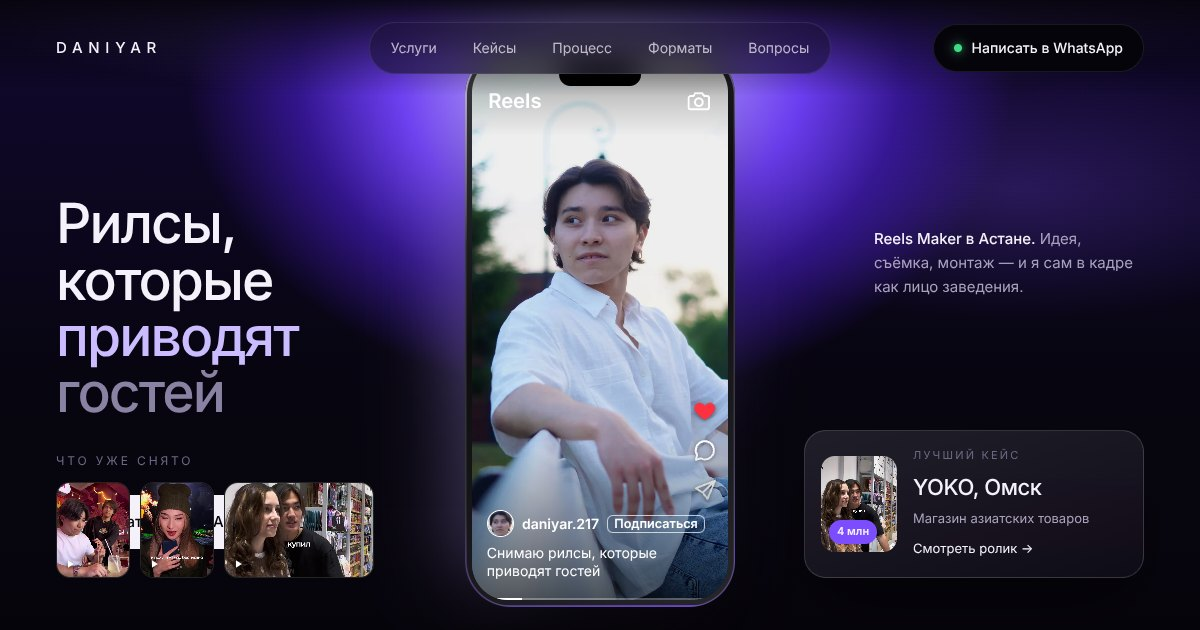
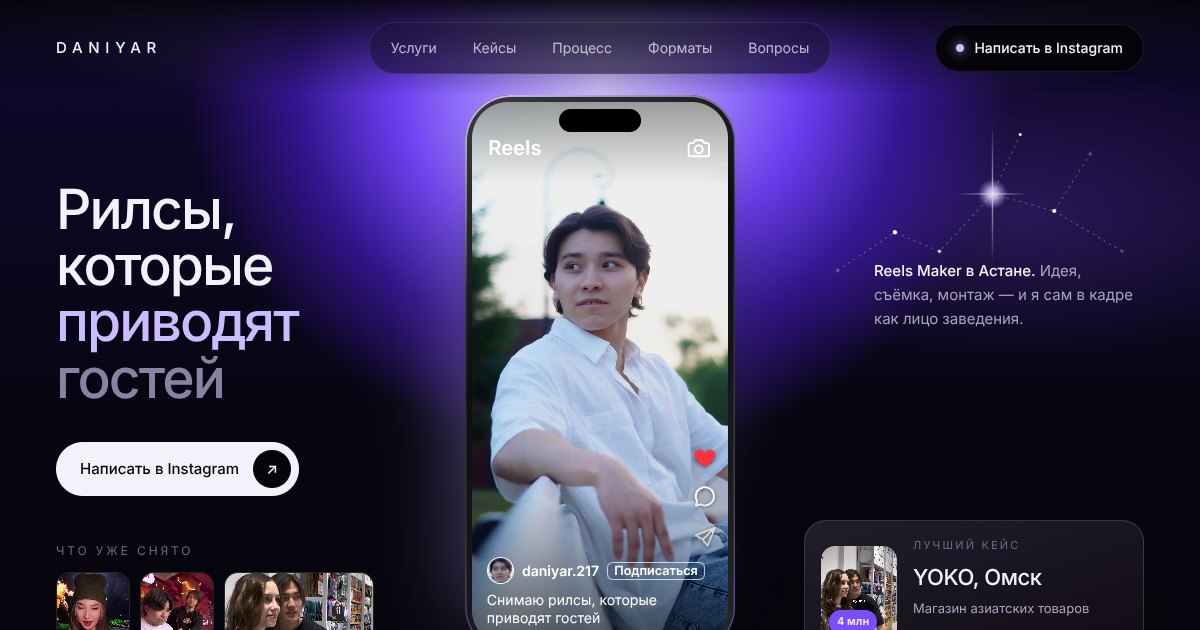
Contact via Instagram Direct only; no text animation on cases
All contact buttons now open ig.me/m/daniyar.217 in a new tab; the
WhatsApp nick, copy-to-clipboard toast and its code are removed.
Case cards no longer animate their titles or count up the number.
OG preview regenerated with the new button.

Claude-Session: https://claude.ai/code/session_01Y36Lw1QfzpX6iKxynzhUKg

diff --git a/reels/index.html b/reels/index.html
@@ -26,7 +26,7 @@
 <link rel="icon" href="favicon.svg" type="image/svg+xml">
 <link rel="apple-touch-icon" href="og.jpg">
 <link rel="preload" href="fonts/inter-cyrillic-500-normal.woff2" as="font" type="font/woff2" crossorigin>
-<link rel="stylesheet" href="css/site.css?v=14">
+<link rel="stylesheet" href="css/site.css?v=15">
 <script>
   document.documentElement.classList.replace('no-js', 'js');
 </script>
@@ -35,10 +35,8 @@
 
 
 <!--
-  КОНТАКТЫ. WhatsApp указан ником (ссылки по нику WhatsApp пока работают не везде):
-  кнопки с атрибутом data-wa копируют ник и показывают подсказку. Ник задан в js/app.js (NICK)
-  и в тексте рядом с кнопками — ищите «daniyar2110».
-  Если появится номер: замените href="#contacts" data-wa… на https://wa.me/7XXXXXXXXXX.
+  КОНТАКТЫ. Только Instagram: кнопки ведут сразу в директ — https://ig.me/m/daniyar.217.
+  Если ник поменяется, замените daniyar.217 во всех ссылках (поиск по «ig.me»).
 -->
 
 <!-- Навигация -->
@@ -51,7 +49,7 @@
     <a href="#formats">Форматы</a>
     <a href="#faq">Вопросы</a>
   </div>
-  <a class="cta-top" href="#contacts" data-wa=""><i></i>Написать в WhatsApp</a>
+  <a class="cta-top" href="https://ig.me/m/daniyar.217" target="_blank" rel="noopener"><i></i>Написать в Instagram</a>
 </nav>
 
 <!-- 1. Первый экран -->
@@ -97,7 +95,7 @@
   </div>
 
   <p class="aside rv" style="--d:.15s"><b>Reels Maker в Астане.</b> Идея, съёмка, монтаж — и я сам в кадре как лицо заведения.</p>
-  <a class="cta rv" style="--d:.2s" href="#contacts" data-wa="">Написать в WhatsApp <i aria-hidden="true">↗</i></a>
+  <a class="cta rv" style="--d:.2s" href="https://ig.me/m/daniyar.217" target="_blank" rel="noopener">Написать в Instagram <i aria-hidden="true">↗</i></a>
 
   <p class="thumbs-cap">Что уже снято</p>
   <div class="thumbs">
@@ -188,7 +186,7 @@
         <h3>Магазин азиатских товаров<small>Привести покупателей в офлайн-магазин. Полный цикл, сам в кадре.</small></h3>
         <div class="bottom">
           <div>
-            <div class="mega"><span data-count="4">4</span><small>млн просмотров</small></div>
+            <div class="mega"><span>4</span><small>млн просмотров</small></div>
             <p class="case-meta">129K лайков · 5,9K сохранений</p>
             <div class="links" style="margin-top:16px">
               <button type="button" class="btn btn-accent watch" data-videos="cases/yoko-4m.mp4" data-posters="cases/yoko-4m.jpg">Ролик <span class="pl"><svg width="12" height="12" viewBox="0 0 24 24"><path d="M7 4.8v14.4c0 .8.9 1.3 1.6.9l11.3-7.2c.6-.4.6-1.3 0-1.7L8.6 3.9C7.9 3.5 7 4 7 4.8z" fill="currentColor"/></svg></span></button>
@@ -221,7 +219,7 @@
     <h2 class="rv"><span class="hl">Четыре</span> шага</h2>
     <p class="sub rv">Без брифов на десять страниц. Вы пишете — дальше процесс веду я.</p>
     <ol class="steps-row">
-      <li class="rv"><span class="num">1</span><h3>Заявка</h3><p>Пишете в WhatsApp или в директ Instagram.</p></li>
+      <li class="rv"><span class="num">1</span><h3>Заявка</h3><p>Пишете мне в директ Instagram.</p></li>
       <li class="rv" style="--d:.08s"><span class="num">2</span><h3>Созвон и идеи</h3><p>Обсуждаем задачу, предлагаю идеи и контент-план.</p></li>
       <li class="rv" style="--d:.16s"><span class="num">3</span><h3>Съёмка</h3><p>Приезжаю и снимаю несколько роликов за смену.</p></li>
       <li class="rv" style="--d:.24s"><span class="num">4</span><h3>Готово</h3><p>Отдаю ролики, готовые к публикации.</p></li>
@@ -236,11 +234,11 @@
     <h2 class="rv">Форматы <span class="hl">работы</span></h2>
     <p class="sub rv">Стоимость назову в переписке — она зависит от задачи и объёма.</p>
     <div class="fmt-list">
-      <div class="fmt-row rv"><span class="cnt">1<small>ролик</small></span><h3>Пробный</h3><p>Познакомиться и посмотреть на результат.</p><a class="ask-link" href="#contacts" data-wa="Пробный ролик">Узнать стоимость</a></div>
-      <div class="fmt-row rv"><span class="cnt">4<small>в месяц</small></span><h3>Раз в неделю</h3><p>Аккаунт не простаивает.</p><a class="ask-link" href="#contacts" data-wa="4 ролика в месяц">Узнать стоимость</a></div>
-      <div class="fmt-row rv hl"><span class="cnt">8<small>в месяц</small></span><h3>Дважды в неделю <span class="badge">Оптимально</span></h3><p>С контент-планом на месяц.</p><a class="ask-link" href="#contacts" data-wa="8 роликов в месяц">Узнать стоимость</a></div>
-      <div class="fmt-row rv"><span class="cnt">12<small>в месяц</small></span><h3>Три раза в неделю</h3><p>С контент-планом на месяц.</p><a class="ask-link" href="#contacts" data-wa="12 роликов в месяц">Узнать стоимость</a></div>
-      <div class="fmt-row rv"><span class="cnt">20+<small>в месяц</small></span><h3>Почти каждый день</h3><p>Для сетей и активных аккаунтов.</p><a class="ask-link" href="#contacts" data-wa="20+ роликов в месяц">Узнать стоимость</a></div>
+      <div class="fmt-row rv"><span class="cnt">1<small>ролик</small></span><h3>Пробный</h3><p>Познакомиться и посмотреть на результат.</p><a class="ask-link" href="https://ig.me/m/daniyar.217" target="_blank" rel="noopener">Узнать стоимость</a></div>
+      <div class="fmt-row rv"><span class="cnt">4<small>в месяц</small></span><h3>Раз в неделю</h3><p>Аккаунт не простаивает.</p><a class="ask-link" href="https://ig.me/m/daniyar.217" target="_blank" rel="noopener">Узнать стоимость</a></div>
+      <div class="fmt-row rv hl"><span class="cnt">8<small>в месяц</small></span><h3>Дважды в неделю <span class="badge">Оптимально</span></h3><p>С контент-планом на месяц.</p><a class="ask-link" href="https://ig.me/m/daniyar.217" target="_blank" rel="noopener">Узнать стоимость</a></div>
+      <div class="fmt-row rv"><span class="cnt">12<small>в месяц</small></span><h3>Три раза в неделю</h3><p>С контент-планом на месяц.</p><a class="ask-link" href="https://ig.me/m/daniyar.217" target="_blank" rel="noopener">Узнать стоимость</a></div>
+      <div class="fmt-row rv"><span class="cnt">20+<small>в месяц</small></span><h3>Почти каждый день</h3><p>Для сетей и активных аккаунтов.</p><a class="ask-link" href="https://ig.me/m/daniyar.217" target="_blank" rel="noopener">Узнать стоимость</a></div>
     </div>
     <p class="sub rv fmt-note">В любом формате могу сниматься сам. Работаю в Астане; выезд и срочный монтаж — отдельно.</p>
   </div>
@@ -271,10 +269,9 @@
         <span class="kicker rv">Контакты</span>
         <h2 class="rv">Пишите <span class="hl">мне</span></h2>
         <p class="final-sub rv">Расскажите о заведении — идеи предложу уже в переписке.</p>
-        <p class="final-nick rv">WhatsApp @daniyar2110 · Instagram @daniyar.217</p>
+        <p class="final-nick rv">Instagram @daniyar.217 · пишите в директ</p>
         <div class="hero-cta rv">
-          <a href="#contacts" class="btn btn-accent" data-wa="">Написать в WhatsApp <svg width="14" height="14" viewBox="0 0 24 24" fill="none" stroke="currentColor" stroke-width="2.4" stroke-linecap="round" stroke-linejoin="round"><path d="M5 12h14M13 6l6 6-6 6"/></svg></a>
-          <a href="https://www.instagram.com/daniyar.217/" class="btn btn-ghost" target="_blank" rel="noopener">Instagram</a>
+          <a href="https://ig.me/m/daniyar.217" target="_blank" rel="noopener" class="btn btn-accent">Написать в Instagram <svg width="14" height="14" viewBox="0 0 24 24" fill="none" stroke="currentColor" stroke-width="2.4" stroke-linecap="round" stroke-linejoin="round"><path d="M5 12h14M13 6l6 6-6 6"/></svg></a>
         </div>
       </div>
     </div>
@@ -297,8 +294,7 @@
     <div class="player-nav"></div>
   </div>
 </div>
-<div class="toast" id="toast" role="status" aria-live="polite"></div>
 
-<script src="js/app.js?v=14"></script>
+<script src="js/app.js?v=15"></script>
 </body>
 </html>

diff --git a/reels/js/app.js b/reels/js/app.js
@@ -98,8 +98,6 @@
       activeCase = on;
       dots.forEach((d, i) => d.classList.toggle('on', i === on));
       if (counter) counter.textContent = String(on + 1).padStart(2, '0') + ' / ' + String(cards.length).padStart(2, '0');
-      const h = $('h3', cards[on]);
-      if (h && !reduce) { h.classList.remove('reveal'); void h.offsetWidth; h.classList.add('reveal'); }
     }
   };
 
@@ -136,27 +134,6 @@
   addEventListener('scroll', onScroll, { passive: true });
   addEventListener('resize', onScroll);
   onScroll();
-
-  // ---------- WhatsApp по нику: кнопка копирует ник и подсказывает, где его вставить ----------
-  const NICK = 'daniyar2110';
-  const toast = $('#toast');
-  let toastT;
-  const show = (html) => { toast.innerHTML = html; toast.classList.add('show'); clearTimeout(toastT); toastT = setTimeout(() => toast.classList.remove('show'), 6000); };
-  const copy = (text) => {
-    if (navigator.clipboard && window.isSecureContext) return navigator.clipboard.writeText(text);
-    const t = document.createElement('textarea'); t.value = text; t.style.cssText = 'position:fixed;opacity:0';
-    document.body.appendChild(t); t.select();
-    try { document.execCommand('copy'); } catch (e) { /* старый браузер: ник всё равно покажем */ }
-    document.body.removeChild(t);
-    return Promise.resolve();
-  };
-  $$('[data-wa]').forEach((btn) => btn.addEventListener('click', (e) => {
-    e.preventDefault();
-    const fmt = btn.dataset.wa, tail = fmt ? ' Спросите про формат «' + fmt + '».' : '';
-    copy(NICK).then(
-      () => show('Ник <b>@' + NICK + '</b> скопирован. Откройте WhatsApp и вставьте его в поиск.' + tail),
-      () => show('Мой WhatsApp: <b>@' + NICK + '</b>. Найдите этот ник через поиск в WhatsApp.' + tail));
-  }));
 
   // ---------- плеер роликов из кейсов: видео грузится только по нажатию ----------
   const player = $('.player'), video = player && $('video', player), pnav = player && $('.player-nav', player);

diff --git a/reels/css/site.css b/reels/css/site.css
@@ -807,7 +807,7 @@ section.block::before, .final::before {
 .vnav .links a:hover { color: var(--text); }
 .vnav .links a.active { background: #06040b; color: var(--text); }
 .vnav .cta-top { justify-self: end; display: inline-flex; align-items: center; gap: 10px; padding: 12px 20px; border-radius: 999px; background: #06040b; border: 1px solid rgba(255,255,255,.08); font-size: 14px; font-weight: 500; }
-.vnav .cta-top i { width: 8px; height: 8px; border-radius: 50%; background: #3ddc84; box-shadow: 0 0 10px #3ddc84; }
+.vnav .cta-top i { width: 8px; height: 8px; border-radius: 50%; background: var(--lilac); box-shadow: 0 0 10px var(--lilac); }
 
 /* ---------- первый экран ---------- */
 .vhero { position: relative; z-index: 3; min-height: 100vh; min-height: 100svh; overflow: hidden; isolation: isolate; }
@@ -988,8 +988,3 @@ section.block::before, .final::before {
   .vhero .cta { top: auto; bottom: 224px; }
 }
 
-/* смена карточки кейса: заголовок мягко проявляется из лёгкого размытия */
-.case h3.reveal { animation: soft-in .9s cubic-bezier(.2, .7, .2, 1) both; }
-.case h3.reveal small { animation: soft-in .9s .12s cubic-bezier(.2, .7, .2, 1) both; }
-@keyframes soft-in { from { opacity: 0; transform: translateY(12px); filter: blur(8px); } to { opacity: 1; transform: none; filter: none; } }
-@media (prefers-reduced-motion: reduce) { .case h3.reveal, .case h3.reveal small { animation: none; } }

diff --git a/README.md b/README.md
@@ -14,12 +14,12 @@
 
 - `reels/index.html` — разметка и тексты
 - `reels/css/site.css` — стили; цвета и шрифты — переменные в начале файла
-- `reels/js/app.js` — появление блоков, 3D-галерея кейсов, плеер роликов, копирование ника WhatsApp
+- `reels/js/app.js` — появление блоков, 3D-галерея кейсов, плеер роликов
 - `reels/fonts/` — шрифты с кириллицей (локально, без внешних CDN)
 - `reels/cases/` — ролики и обложки кейсов
 - `reels/me.webp`, `reels/me.jpg`, `reels/me-avatar.jpg` — исходное фото для телефона на первом экране
 
-Контакты: WhatsApp указан ником @daniyar2110 — кнопки копируют ник и подсказывают вставить его в поиск WhatsApp. Instagram — @daniyar.217. Цены на сайте не указаны.
+Контакты: только Instagram @daniyar.217 — все кнопки ведут сразу в директ (ig.me/m/daniyar.217). Цены на сайте не указаны.
 
 ## Стек
 
